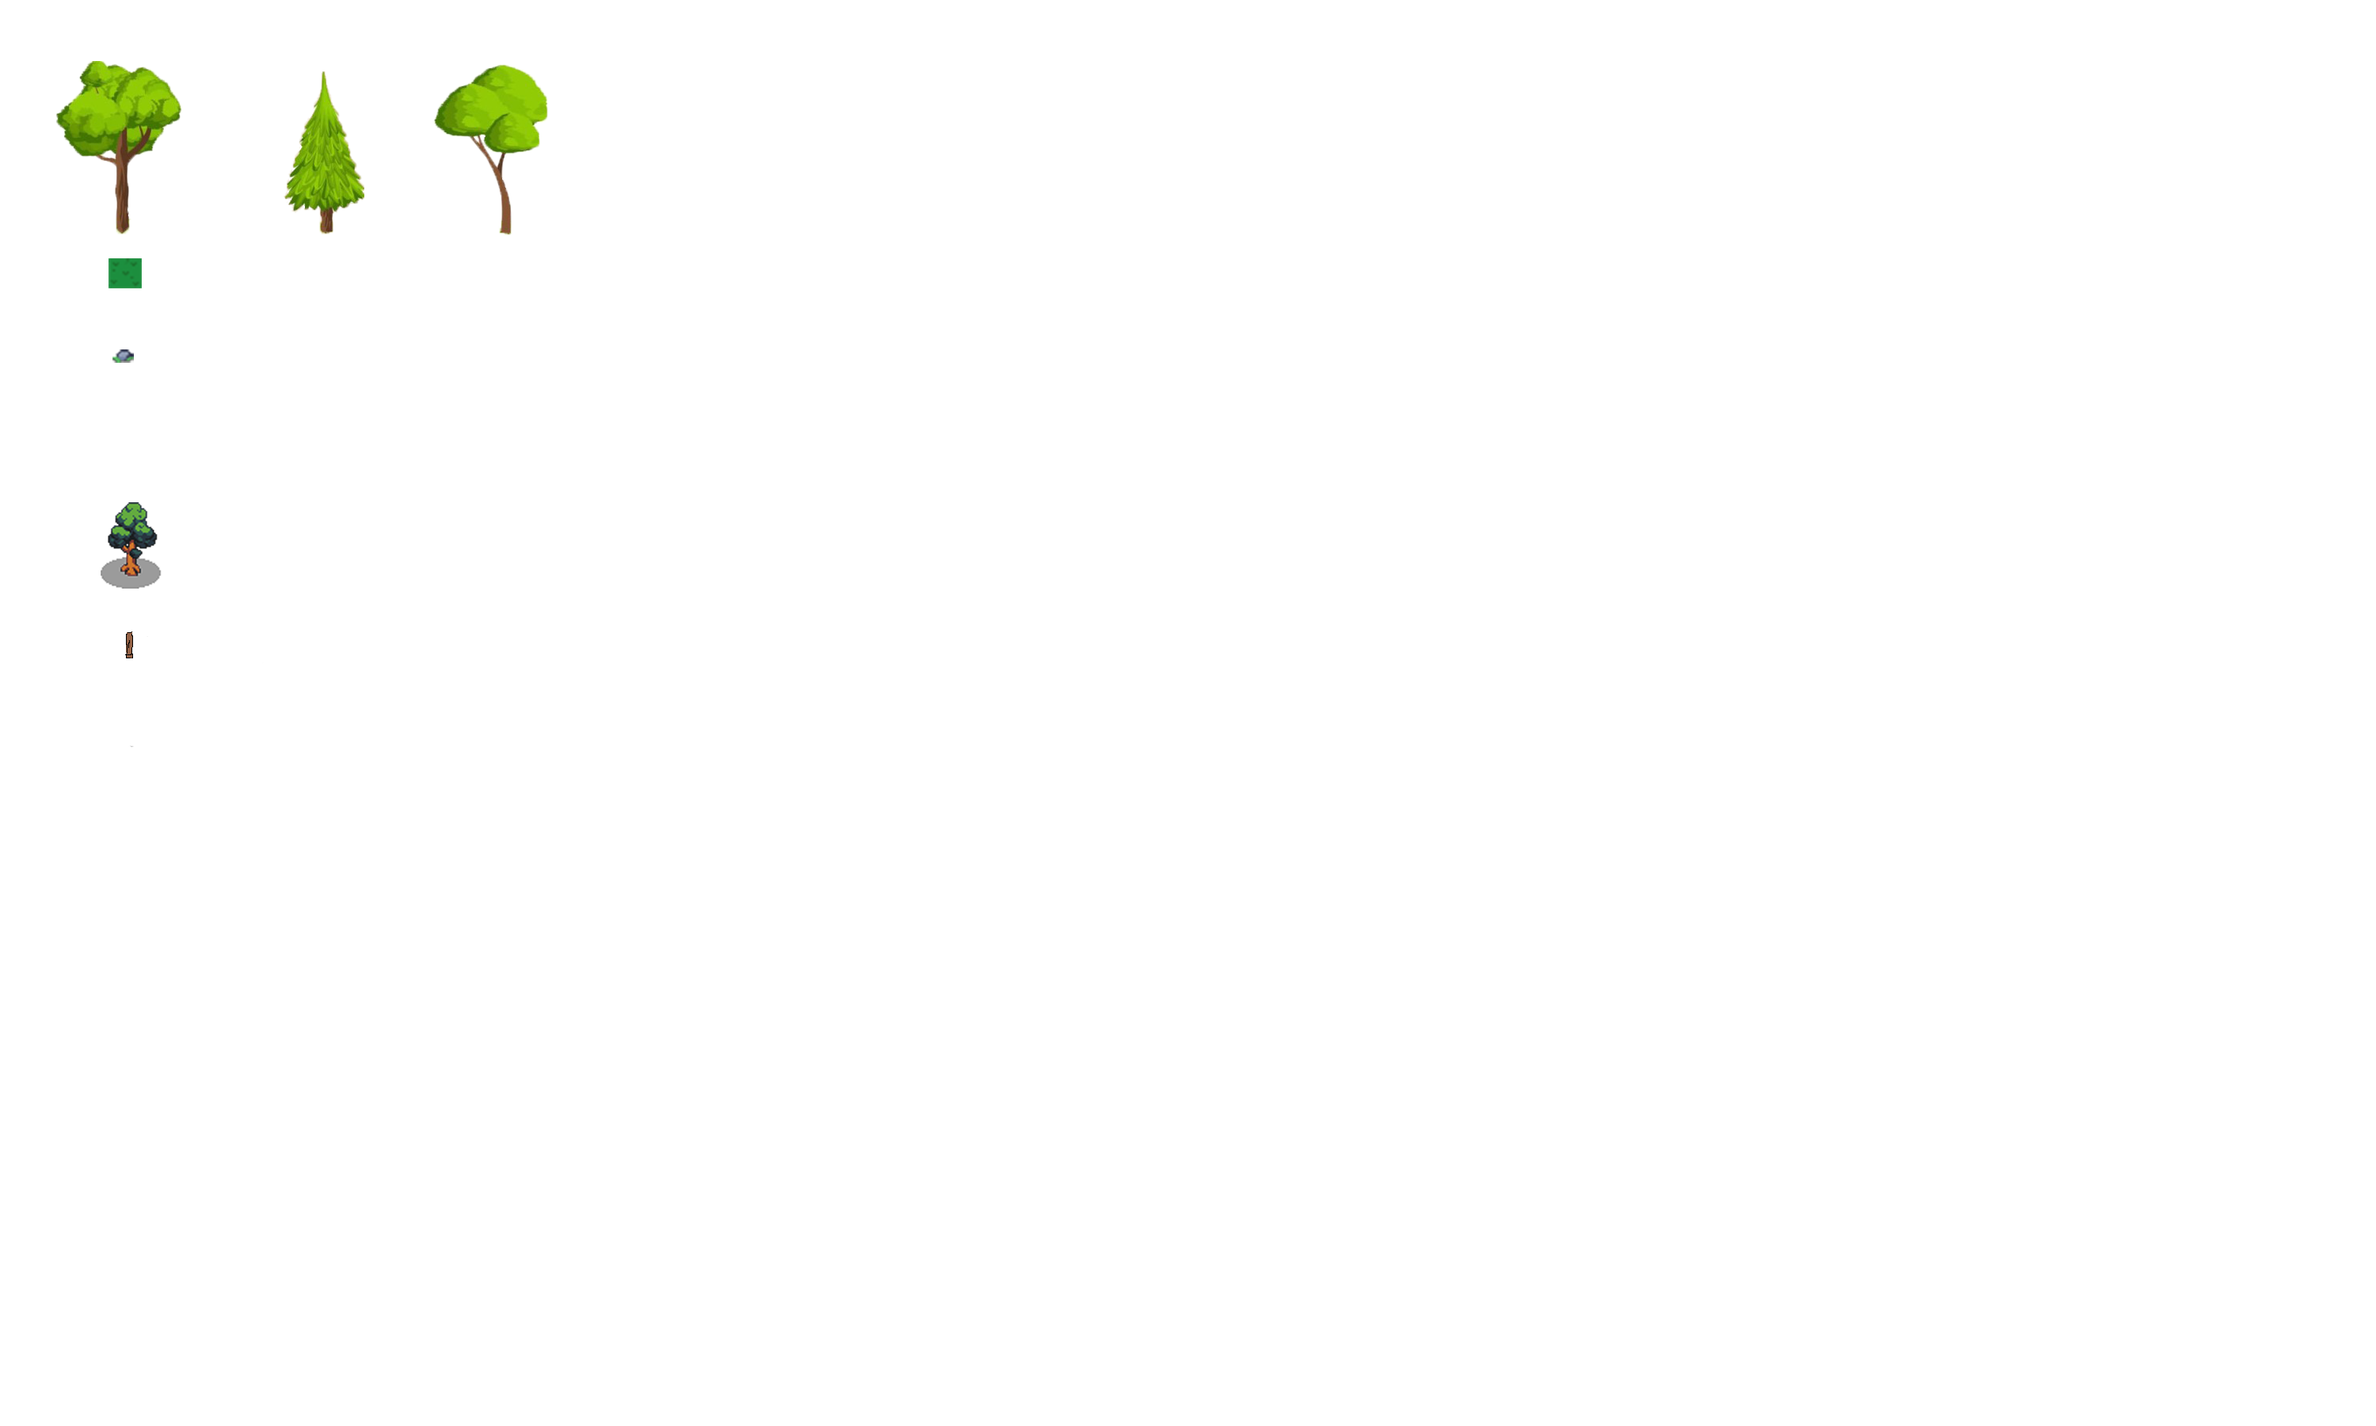
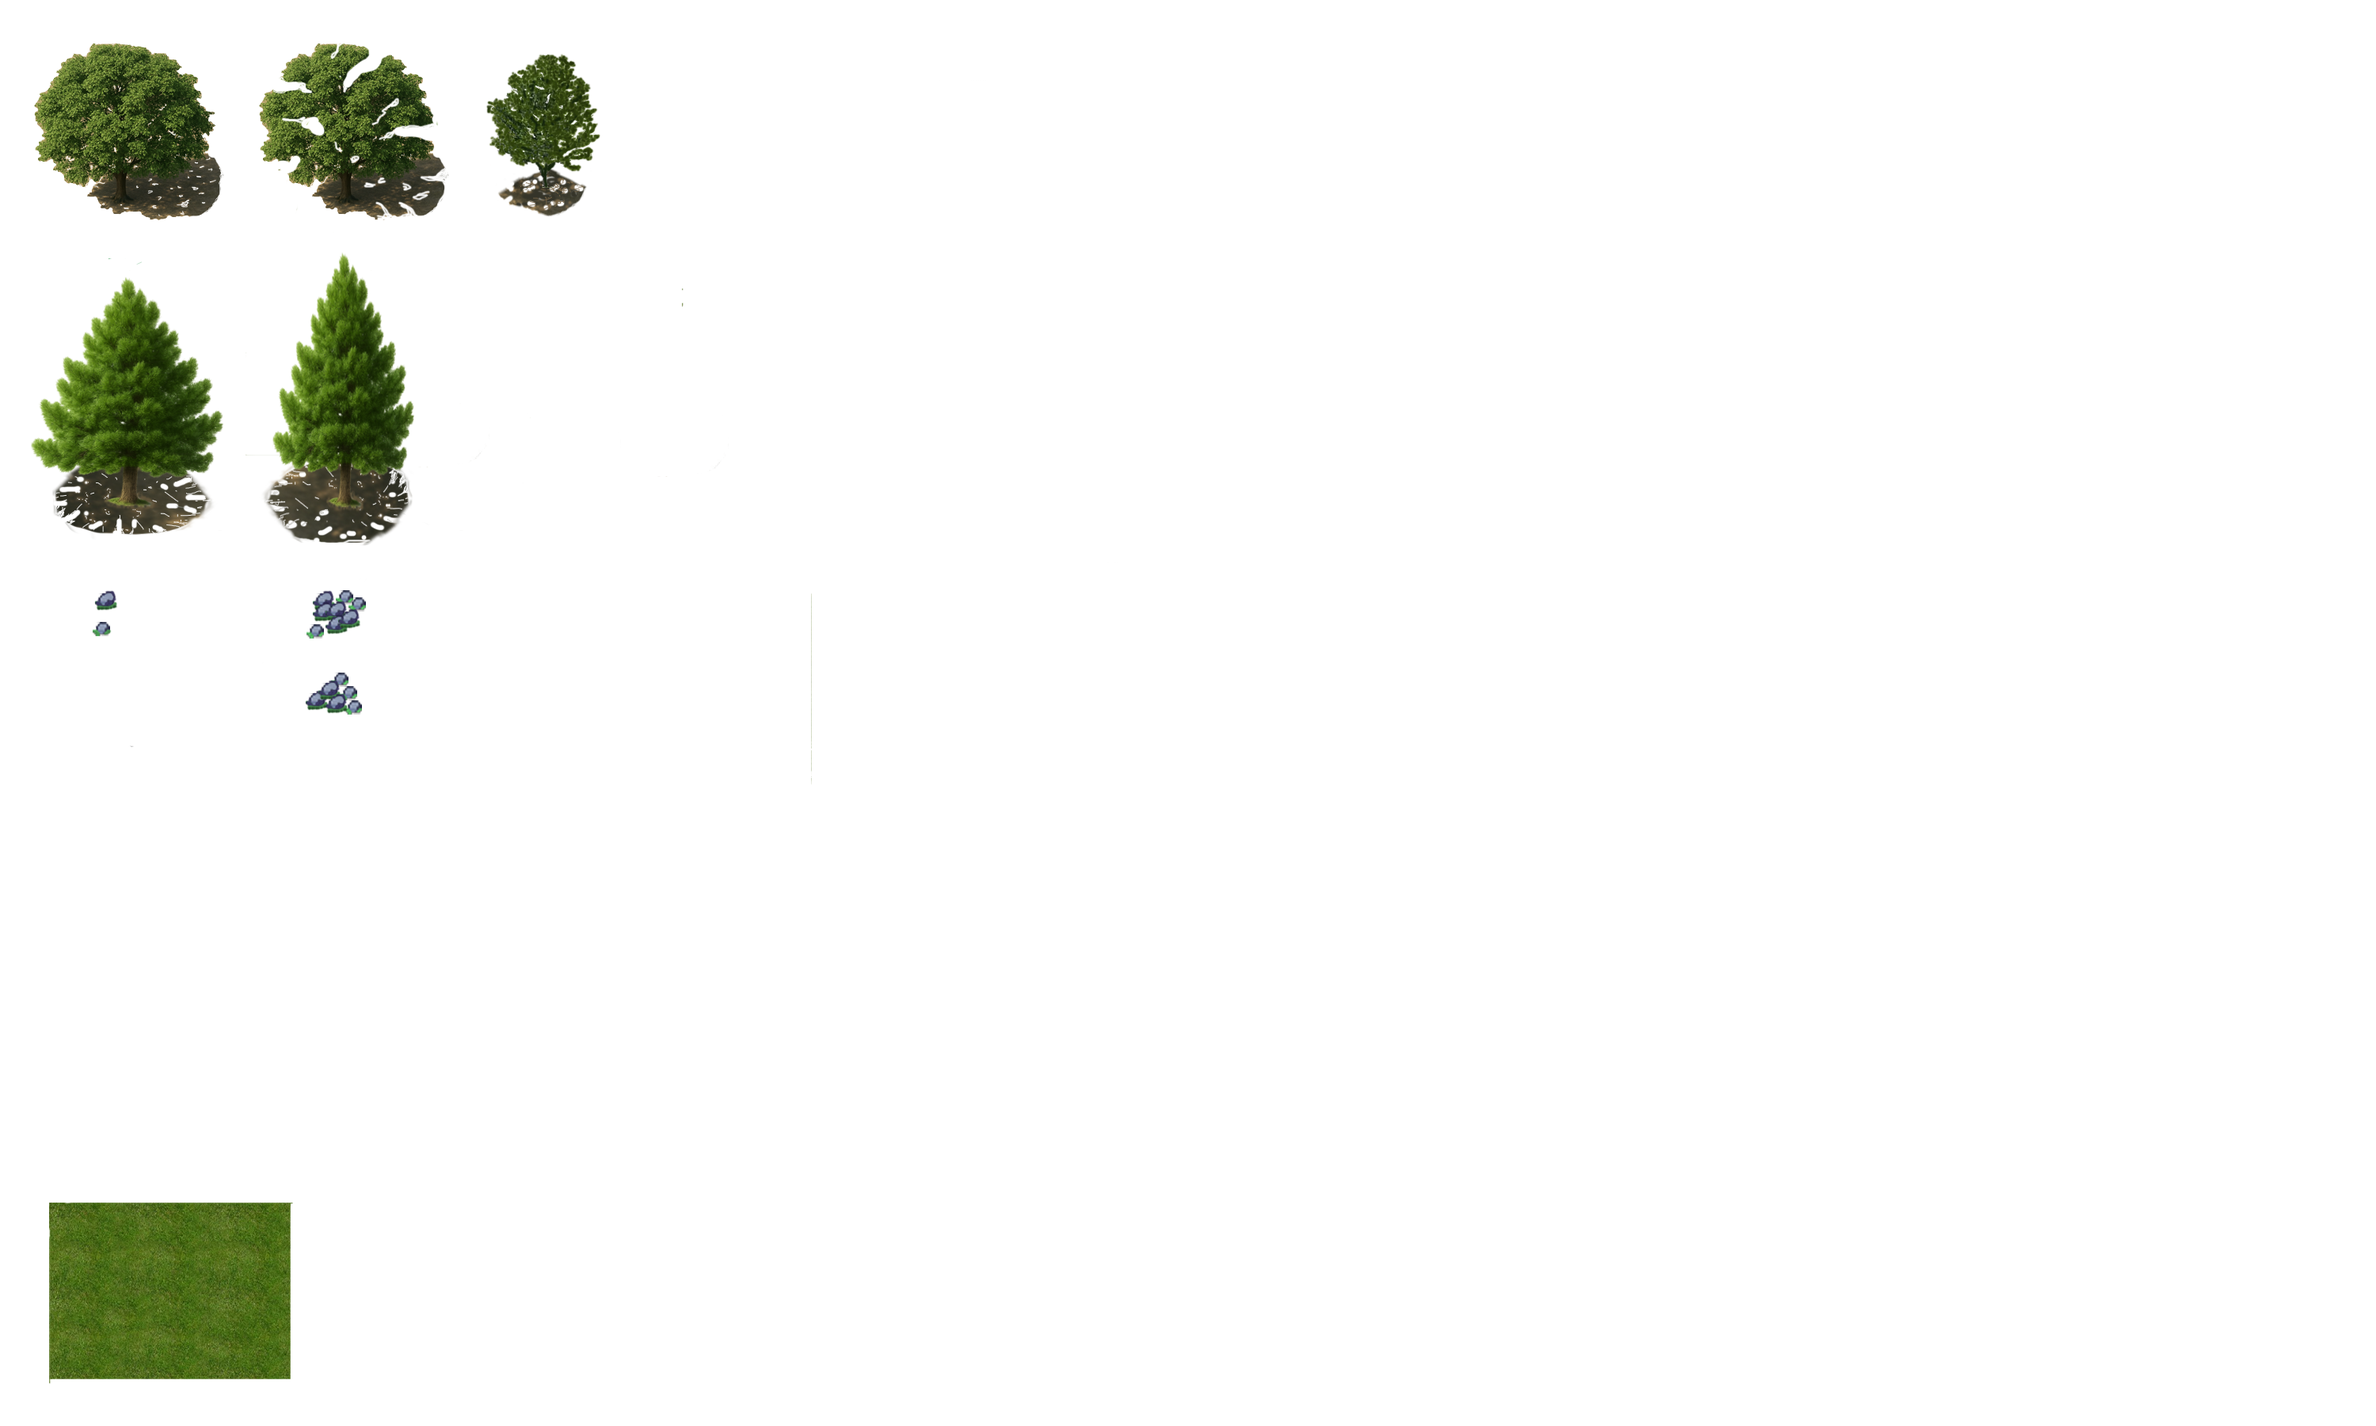
implementado el click en el minimapa y las sprite randoms

Changed region(s): [[0.0, 0.0311, 0.248, 0.4978], [0.0, 0.84, 0.124, 0.9644]]

diff --git a/main.py b/main.py
@@ -1,8 +1,8 @@
 import pygame
 import constants
-from map_1_data import all_forest
-from utiles import draw_matriz, imagen_interface, draw_background
-from mini_map import draw_mini_map
+from world_image import world_tiles, all_world
+from utiles import draw_matriz, draw_background, imagen_interface
+from mini_map import draw_mini_map, minimap_to_world
 
 # pygame setup
 pygame.init()
@@ -11,34 +11,35 @@ clock = pygame.time.Clock()
 
 pygame.display.set_caption("War")
 
+tiles = world_tiles()
+
 running = True
-CHUNK_SIZE = 16
-TILE_SIZE = 38
 
 background = pygame.Surface((constants.WORLD_WIDTH, constants.WORLD_HEIGHT))
 camera_x = constants.WORLD_WIDTH // 2 - constants.SCREEN_WIDTH // 2
 camera_y = constants.WORLD_HEIGHT - constants.SCREEN_HEIGHT
-
-grass = imagen_interface('mundo//tiles_world.png', 137, 326, TILE_SIZE, TILE_SIZE, 20, 20)
-small_stone = imagen_interface('mundo//tiles_world.png', 148, 445, 20, 20, 10, 15)
-tree1_img = imagen_interface('mundo//tiles_world.png', 80, 70, 140, 250, 120, 140)
-tree2_img = imagen_interface('mundo//tiles_world.png', 360, 70, 140, 250, 120, 180)
-tree3_img = imagen_interface('mundo//tiles_world.png', 550, 85, 150, 280, 120, 180)
-wood_img = imagen_interface('mundo//tiles_world.png', 158, 796, 10, 40, 10, 70)
-
-tiles = {
-    "S": small_stone,
-    "O": tree1_img,
-    "P": tree2_img,
-    "Q": tree3_img,
-    "M": wood_img
-}
+grass = imagen_interface('mundo//tiles_world.png', 62, 1518, 200, 220, constants.TILE_SIZE, constants.TILE_SIZE)
 
 while running:
     
     for event in pygame.event.get():
         if event.type == pygame.QUIT:
             running = False
+
+        if event.type == pygame.MOUSEBUTTONDOWN:
+            mx, my = event.pos
+            # Ver si el click está dentro del minimapa
+            if constants.MINIMAP_X <= mx <= constants.MINIMAP_X + constants.MINIMAP_X_SIZE and constants.MINIMAP_Y <= my <= constants.MINIMAP_Y + constants.MINIMAP_Y_SIZE:
+                # Convertir a coordenadas del mundo
+                wx, wy = minimap_to_world(mx, my)
+
+                # Centrar la cámara en ese punto
+                camera_x = wx - constants.SCREEN_WIDTH // 2
+                camera_y = wy - constants.SCREEN_HEIGHT // 2
+
+                # Limitar cámara para que no se salga del mundo
+                camera_x = max(0, min(camera_x, constants.WORLD_WIDTH - constants.SCREEN_WIDTH))
+                camera_y = max(0, min(camera_y, constants.WORLD_HEIGHT - constants.SCREEN_HEIGHT))
 
     # --- Cámara con el mouse ---
     mouse_x, mouse_y = pygame.mouse.get_pos()
@@ -61,22 +62,17 @@ while running:
     
     # --- Dibujar ---
     draw_background(background, camera_x, end_camera_x, camera_y, end_camera_y, grass)
+
     # -- Dibujando los elementos de la foresta
-    for matriz in all_forest:
-        
-        if (camera_x - constants.SCREEN_WIDTH < matriz[1] < end_camera_x + constants.SCREEN_WIDTH and 
-            camera_y - constants.SCREEN_HEIGHT < matriz[2] < end_camera_y + constants.SCREEN_HEIGHT) :
-            draw_matriz(background, tiles, matriz[1], matriz[2], matriz[0])
+    for matriz_list in all_world:
+         for matriz in matriz_list:
+            if (camera_x - constants.SCREEN_WIDTH < matriz[1] < end_camera_x + constants.SCREEN_WIDTH and 
+                camera_y - constants.SCREEN_HEIGHT < matriz[2] < end_camera_y + constants.SCREEN_HEIGHT) :
+                draw_matriz(background, tiles, matriz[1], matriz[2], matriz[0])
 
     screen.blit(background, (0, 0), ((camera_x), camera_y, constants.SCREEN_WIDTH, constants.SCREEN_HEIGHT))
 
-    # rect2 = pygame.Rect(100, 100, 80, 120)
-    # # Dibujar la imagen
-    # screen.blit(wood_img, rect2)
-    # # Dibujar el borde del rectángulo (en rojo, 1 píxeles de grosor)
-    # pygame.draw.rect(screen, (255, 0, 0), rect2, 1)
-
-    draw_mini_map(screen, camera_x, camera_y, all_forest)
+    draw_mini_map(screen, camera_x, camera_y, all_world)
 
  	# Actualizar pantalla
     pygame.display.flip()

diff --git a/mini_map.py b/mini_map.py
@@ -1,13 +1,13 @@
 import pygame
 import constants
 
-scale_x = constants.MINIMAP_SIZE / constants.WORLD_WIDTH
-scale_y = constants.MINIMAP_SIZE / constants.WORLD_HEIGHT
+scale_x = constants.MINIMAP_X_SIZE / constants.WORLD_WIDTH
+scale_y = constants.MINIMAP_Y_SIZE / constants.WORLD_HEIGHT
 
 # fondo del minimapa
-def draw_mini_map(screen, camera_x, camera_y, matriz_imgs):
+def draw_mini_map(screen, camera_x, camera_y, all_world):
 
-	miniMap = pygame.Rect(constants.SCREEN_WIDTH - constants.MINIMAP_SIZE - 10, constants.SCREEN_HEIGHT - constants.MINIMAP_SIZE - 10, constants.MINIMAP_SIZE, constants.MINIMAP_SIZE)
+	miniMap = pygame.Rect(constants.MINIMAP_X, constants.MINIMAP_Y, constants.MINIMAP_X_SIZE, constants.MINIMAP_Y_SIZE)
 	pygame.draw.rect(screen, (50, 50, 50), miniMap)
 	pygame.draw.rect(screen, (255, 0, 0), miniMap, 1)
 
@@ -22,24 +22,39 @@ def draw_mini_map(screen, camera_x, camera_y, matriz_imgs):
 	#     pygame.draw.circle(screen, (255, 0, 0), (SCREEN_WIDTH - MINIMAP_SIZE - 10 + mx, 10 + my), 2)
 
 
-	cam_rect = pygame.Rect((camera_x * scale_x) + constants.SCREEN_WIDTH - constants.MINIMAP_SIZE - 9,
-		(camera_y * scale_y) + constants.SCREEN_HEIGHT - constants.MINIMAP_SIZE - 9,
-                       constants.SCREEN_WIDTH * scale_x - 5, constants.SCREEN_HEIGHT * scale_y - 5)
+	cam_rect = pygame.Rect((camera_x * scale_x) + constants.SCREEN_WIDTH - constants.MINIMAP_X_SIZE,
+		(camera_y * scale_y) + constants.SCREEN_HEIGHT - constants.MINIMAP_Y_SIZE - 9,
+                       constants.SCREEN_WIDTH * scale_x, constants.SCREEN_HEIGHT * scale_y - 5)
 
-	for matriz in matriz_imgs:
-	    mx = int(matriz[1] * scale_x)
-	    my = int(matriz[2] * scale_y)
-	    if (matriz[3] == "trees") :
-	    	t = 0
-	    	for x in range(5):
-	    		if x % 2 == 0:
-	    			t = x
-	    		else:
-	    			t = 0
-	    		pygame.draw.circle(screen, (0, 255, 0), (constants.SCREEN_WIDTH - constants.MINIMAP_SIZE - 9 + mx + x * 5, 
-	    	constants.SCREEN_HEIGHT - constants.MINIMAP_SIZE - 9 + my + t * 5), 2)
-	    else:
-	    	pygame.draw.circle(screen, (0, 255, 0), (constants.SCREEN_WIDTH - constants.MINIMAP_SIZE - 9 + mx, 
-	    	constants.SCREEN_HEIGHT - constants.MINIMAP_SIZE - 9 + my), 2)
+	for matriz_imgs in all_world:
+		for matriz in matriz_imgs:
+		    mx = int(matriz[1] * scale_x)
+		    my = int(matriz[2] * scale_y)
+		    if (matriz[3] == "trees") :
+		    	t = 0
+		    	for x in range(9):
+		    		if x % 2 == 0:
+		    			t = 5
+		    		else:
+		    			t = 0
+		    		pygame.draw.circle(screen, (0, 255, 0), (constants.SCREEN_WIDTH - constants.MINIMAP_X_SIZE + mx + x * 5, 
+		    	constants.SCREEN_HEIGHT - constants.MINIMAP_Y_SIZE + my + t), 2)
+		    elif (matriz[3] == "tree") :
+		    	pygame.draw.circle(screen, (0, 255, 0), (constants.SCREEN_WIDTH - constants.MINIMAP_X_SIZE + mx, 
+		    	constants.SCREEN_HEIGHT - constants.MINIMAP_Y_SIZE + my), 2)
 
 	pygame.draw.rect(screen, (255, 196, 38), cam_rect, 1)  # borde blanco
+
+"""
+	Convierte coordenadas del minimapa -> mundo
+	mx: Coordenada x del minimap.
+	my: Coordenada y del minimap.
+
+	return:
+		wx: Coordenada x del mundo.
+		wy: Coordenada y del mundo.
+"""
+def minimap_to_world(mx, my):
+    wx = int((mx - constants.MINIMAP_X) * constants.WORLD_WIDTH / constants.MINIMAP_X_SIZE)
+    wy = int((my - constants.MINIMAP_Y) * constants.WORLD_HEIGHT / constants.MINIMAP_Y_SIZE)
+    return wx, wy

diff --git a/map_1_data.py b/map_1_data.py
@@ -1,47 +1,55 @@
 oaks_forest = [
-    "O*O*PO**OQ",
-    "P*OQ**OQ*O",
-    "*OO*O*OPO"
+    "*P*SO*R*O*S",
+    "O*O*P*P*O*Q",
+    "P*OSQ*SQ*O*",
+    "O*Q*SPSO*O*",
+    "*O*O*SO*P*O"
 ]
 oaks_forest2 = [
-    "O**OQO**OO",
-    "O*Q*O*PO*O",
-    "*OP*O*OQ*"
+    "*R*PS**O*S*",
+    "O**O*O*SO*O",
+    "O*Q*S*P*O*O*",
+    "P*O*QS*Q*O*",
+    "*O*P*SO*P*Q"
 ]
 oaks_forest3 = [
-    "Q**OPO**OO",
-    "P*Q*Q*PO*O",
-    "*OP*Q*OQP"
+    "*SO*SP*R*",
+    "Q*P**Q**O",
+    "*PQ*PO*O*",
+    "P*O*Q*QSO*",
+    "O*P*S*Q*P"
 ]
-stone_group = [
-    "***SSS***",
-    "*S*SS*SS*",
-    "**SSS*S**",
-    "*SS*SSSS*",
-    "***SSS***"
+oaks_forest4 = [
+    "S*OS*P*R*",
+    "Q*P*SQ*O*",
+    "*PR*PO*SO",
+    "P*O*QSQ*O",
+    "Q*P*SQ*O*",
+    "*PQ*PR*SO",
+    "O*P*R*Q*P"
+]
+rock_group = [
+    "**ABAAB**",
+    "BBABAAB**",
+    "ABAABA*B*A"
 ]
 
 all_forest = [
-    [oaks_forest, 500, 60, "trees"],
-    [oaks_forest2, 300, 400, "trees"],
-    [stone_group, 900, 600, "stones"],
-    [oaks_forest, 1500, 3000, "trees"],
-    [oaks_forest2, 1300, 1000, "trees"],
-    [oaks_forest3, 1500, 1200, "trees"],
-    [oaks_forest, 700, 1500, "trees"],
-    [oaks_forest2, 1200, 2200, "trees"],
-    [oaks_forest3, 1000, 3000, "trees"],
-    [oaks_forest, 500, 4500, "trees"],
-    [oaks_forest2, 700, 5000, "trees"],
-    [oaks_forest3, 1400, 1200, "trees"],
-    [oaks_forest, 500, 5500, "trees"],
-    [oaks_forest2, 1700, 5500, "trees"],
-    [oaks_forest3, 600, 4000, "trees"],
-    ["O", 150, 200, "tree"],
-    ["O", 250, 450, "tree"],
-    ["P", 250, 1250, "tree"],
-    ["O", 250, 3050, "tree"],
-    ["Q", 50, 450, "tree"],
-    ["O", 2550, 5000, "tree"],
-    [["MMMMMM"], 340, 300, "woods"],
+    [oaks_forest, 3700, 200, "trees"],
+    [oaks_forest2, 3000, 1200, "trees"],
+    [oaks_forest4, 2700, 2000, "trees"],
+    [oaks_forest, 1500, 4000, "trees"],
+    [oaks_forest2, 2500, 5000, "trees"],
+    [oaks_forest4, 1200, 6000, "trees"],
+    [oaks_forest3, 1500, 7500, "trees"],
+    [oaks_forest4, 3500, 8500, "trees"],
+    [oaks_forest, 700, 10300, "trees"],
+    [oaks_forest2, 1200, 11000, "trees"],
+    [oaks_forest3, 2700, 12000, "trees"],
+    [oaks_forest, 500, 13000, "trees"],
+    [oaks_forest2, 2900, 14000, "trees"],
+    [oaks_forest3, 1400, 15000, "trees"],
+    [oaks_forest, 500, 16000, "trees"],
+    [oaks_forest2, 1700, 16800, "trees"],
+    [oaks_forest3, 600, 17000, "trees"],
 ]

diff --git a/utiles.py b/utiles.py
@@ -1,5 +1,9 @@
 import pygame
+import random
 import os
+import constants
+
+random.seed(42)
 
 base_path = os.path.dirname(__file__)
 
@@ -26,6 +30,7 @@ def imagen_interface(route, x, y, rw, rh, w, h):
 	image = pygame.transform.scale(image, (w, h))
 	return image
 
+
 """
 	dibuja la imagen dada en el background del chunk donde este la camara
 
@@ -33,6 +38,7 @@ def imagen_interface(route, x, y, rw, rh, w, h):
 	background: zona donde se dibujara la imagen.
 	range1: coordenada inicial de la x.
 	w: ancho que tendra la imagen.
+	h: alto que tendra la imagen.
 	range2: cordenada inicial de la y.
 	img: la imagen a dibujar. 
 
@@ -40,8 +46,8 @@ def imagen_interface(route, x, y, rw, rh, w, h):
 		None
 """
 def draw_background(background, range1, w, range2, h, img):
-    	for y in range(range2, h, 20):
-            for x in range(range1, w, 20):
+    	for y in range(range2, h, 150):
+            for x in range(range1, w, 150):
                 background.blit(img, (x, y))
 
 
@@ -67,3 +73,40 @@ def draw_matriz(screen, tiles, x, y, map_data):
     				pos_x = x + j * w
     				pos_y = y + i * w
     				screen.blit(tiles[col], (pos_x, pos_y))
+
+
+"""
+	Genera siempre las mismas posiciones para los sprites.
+
+	Args:
+		cant (int): cantidad de coordenadas a crear.
+		w: ancho que tendra la imagen.
+		h: alto que tendra la imagen.
+
+	return:
+		positions (list)
+"""
+def generate_positions(cant, w, h):
+    positions = []
+    for _ in range(cant):
+        x = random.randint(10, constants.WORLD_WIDTH - w)
+        y = random.randint(10, constants.WORLD_HEIGHT - h)
+        positions.append((x, y))
+    return positions
+
+"""
+	Crea una matriz de sprites en posiciones fijas aleatorias.
+
+	Args:
+		cant (int): cantidad de coordenadas a crear.
+		size: Tamaño del sprite.
+
+	return:
+		positions (list)
+"""
+def random_sprites(sprite, cant, w, h, name):
+    positions = generate_positions(cant, w, h)
+    sprites = []
+    for pos in positions:
+        sprites.append([sprite, pos[0], pos[1], name])
+    return sprites

diff --git a/world_image.py b/world_image.py
@@ -1,0 +1,41 @@
+import pygame
+from map_1_data import all_forest
+from utiles import draw_matriz, imagen_interface, draw_background, random_sprites
+
+def world_tiles ():
+    tree1_img = imagen_interface('mundo//tiles_world.png', 50, 50, 280, 280, 130, 160)
+    tree2_img = imagen_interface('mundo//tiles_world.png', 30, 345, 250, 340, 120, 180)
+    tree3_img = imagen_interface('mundo//tiles_world.png', 320, 50, 280, 280, 130, 160)
+    tree4_img = imagen_interface('mundo//tiles_world.png', 320, 350, 260, 340, 130, 200)
+    tree5_img = imagen_interface('mundo//tiles_world.png', 600, 65, 250, 330, 130, 200)
+    small_rock = imagen_interface('mundo//tiles_world.png', 115, 785, 40, 20, 20, 10)
+    medium_rock = imagen_interface('mundo//tiles_world.png', 120, 745, 40, 20, 20, 10)
+    group1_rock = imagen_interface('mundo//tiles_world.png', 385, 740, 90, 70, 40, 30)
+    group2_rock = imagen_interface('mundo//tiles_world.png', 385, 740, 90, 70, 40, 30)
+
+    tiles = {
+        "A": small_rock,
+        "B": medium_rock,
+        "C": group1_rock,
+        "D": group2_rock,
+        "O": tree1_img,
+        "P": tree2_img,
+        "Q": tree3_img,
+        "R": tree4_img,
+        "S": tree5_img,
+    }
+    return tiles
+
+
+all_world = [
+    all_forest,
+    random_sprites("A", 200, 20, 10, "rock"), 
+    random_sprites("B", 200, 20, 10, "rock"), 
+    random_sprites("C", 20, 20, 10, "rock"), 
+    random_sprites("D", 20, 20, 10, "rock"),
+    random_sprites("O", 20, 130, 160, "tree"),
+    random_sprites("P", 10, 120, 180, "tree"),
+    random_sprites("Q", 10, 130, 160, "tree"),
+    random_sprites("R", 10, 130, 200, "tree"),
+    random_sprites("S", 10, 130, 200, "tree")
+]

diff --git a/constants.py b/constants.py
@@ -1,8 +1,12 @@
 #sizes
 SCREEN_WIDTH, SCREEN_HEIGHT = 1500, 780
-WORLD_WIDTH, WORLD_HEIGHT = 3000, 6000
+WORLD_WIDTH, WORLD_HEIGHT = 5000, 20000
 
-MINIMAP_SIZE = 200
+MINIMAP_X_SIZE = 200
+MINIMAP_Y_SIZE = 770
+TILE_SIZE = 150
+MINIMAP_X = SCREEN_WIDTH - MINIMAP_X_SIZE
+MINIMAP_Y = SCREEN_HEIGHT - MINIMAP_Y_SIZE - 7
 
 #colors
 C_WHITE = (255, 255, 255)
